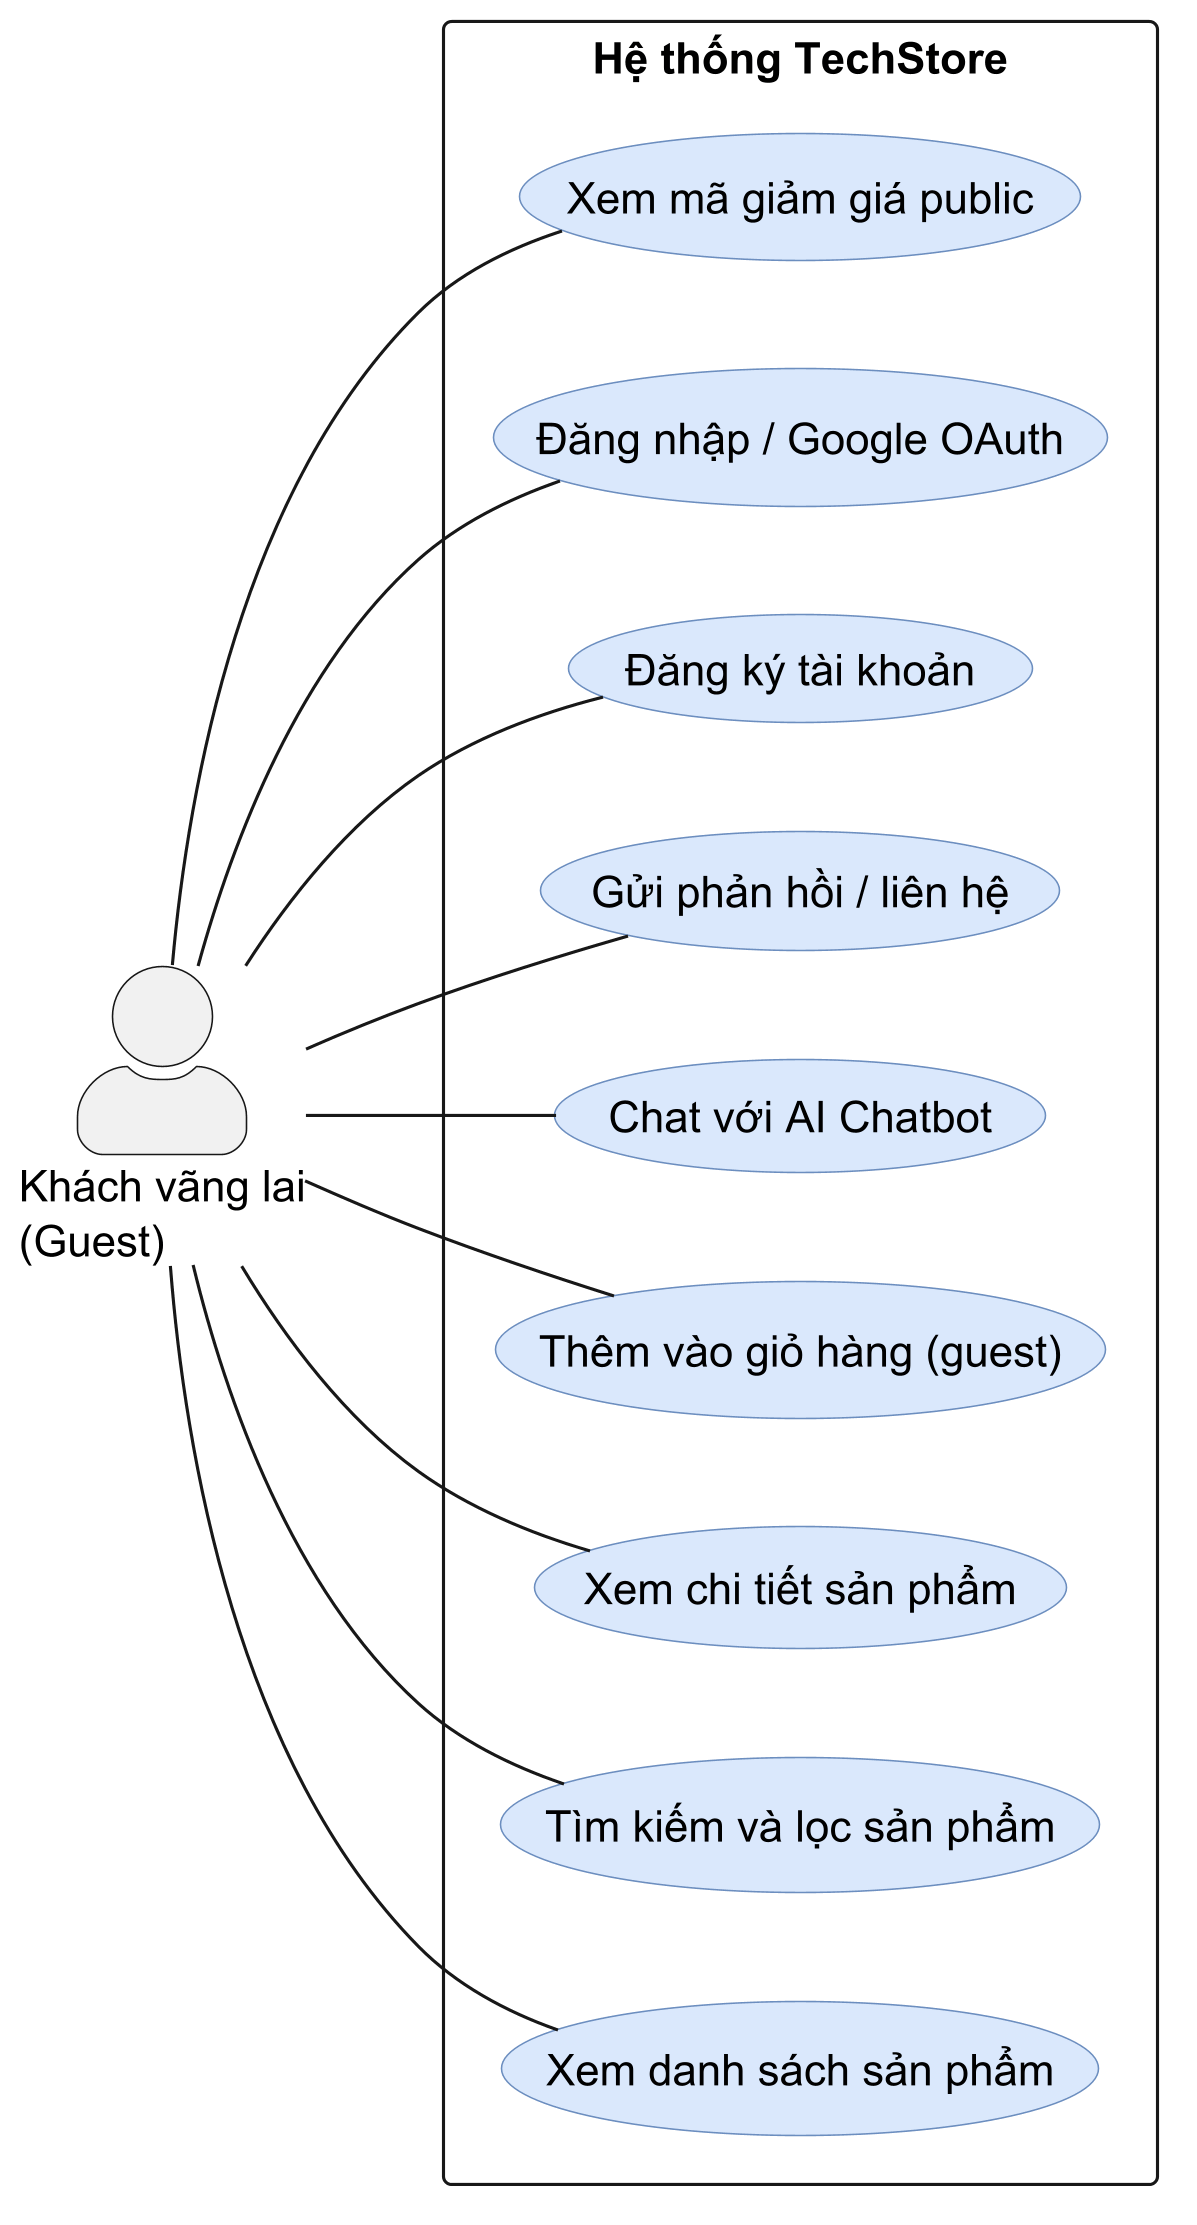
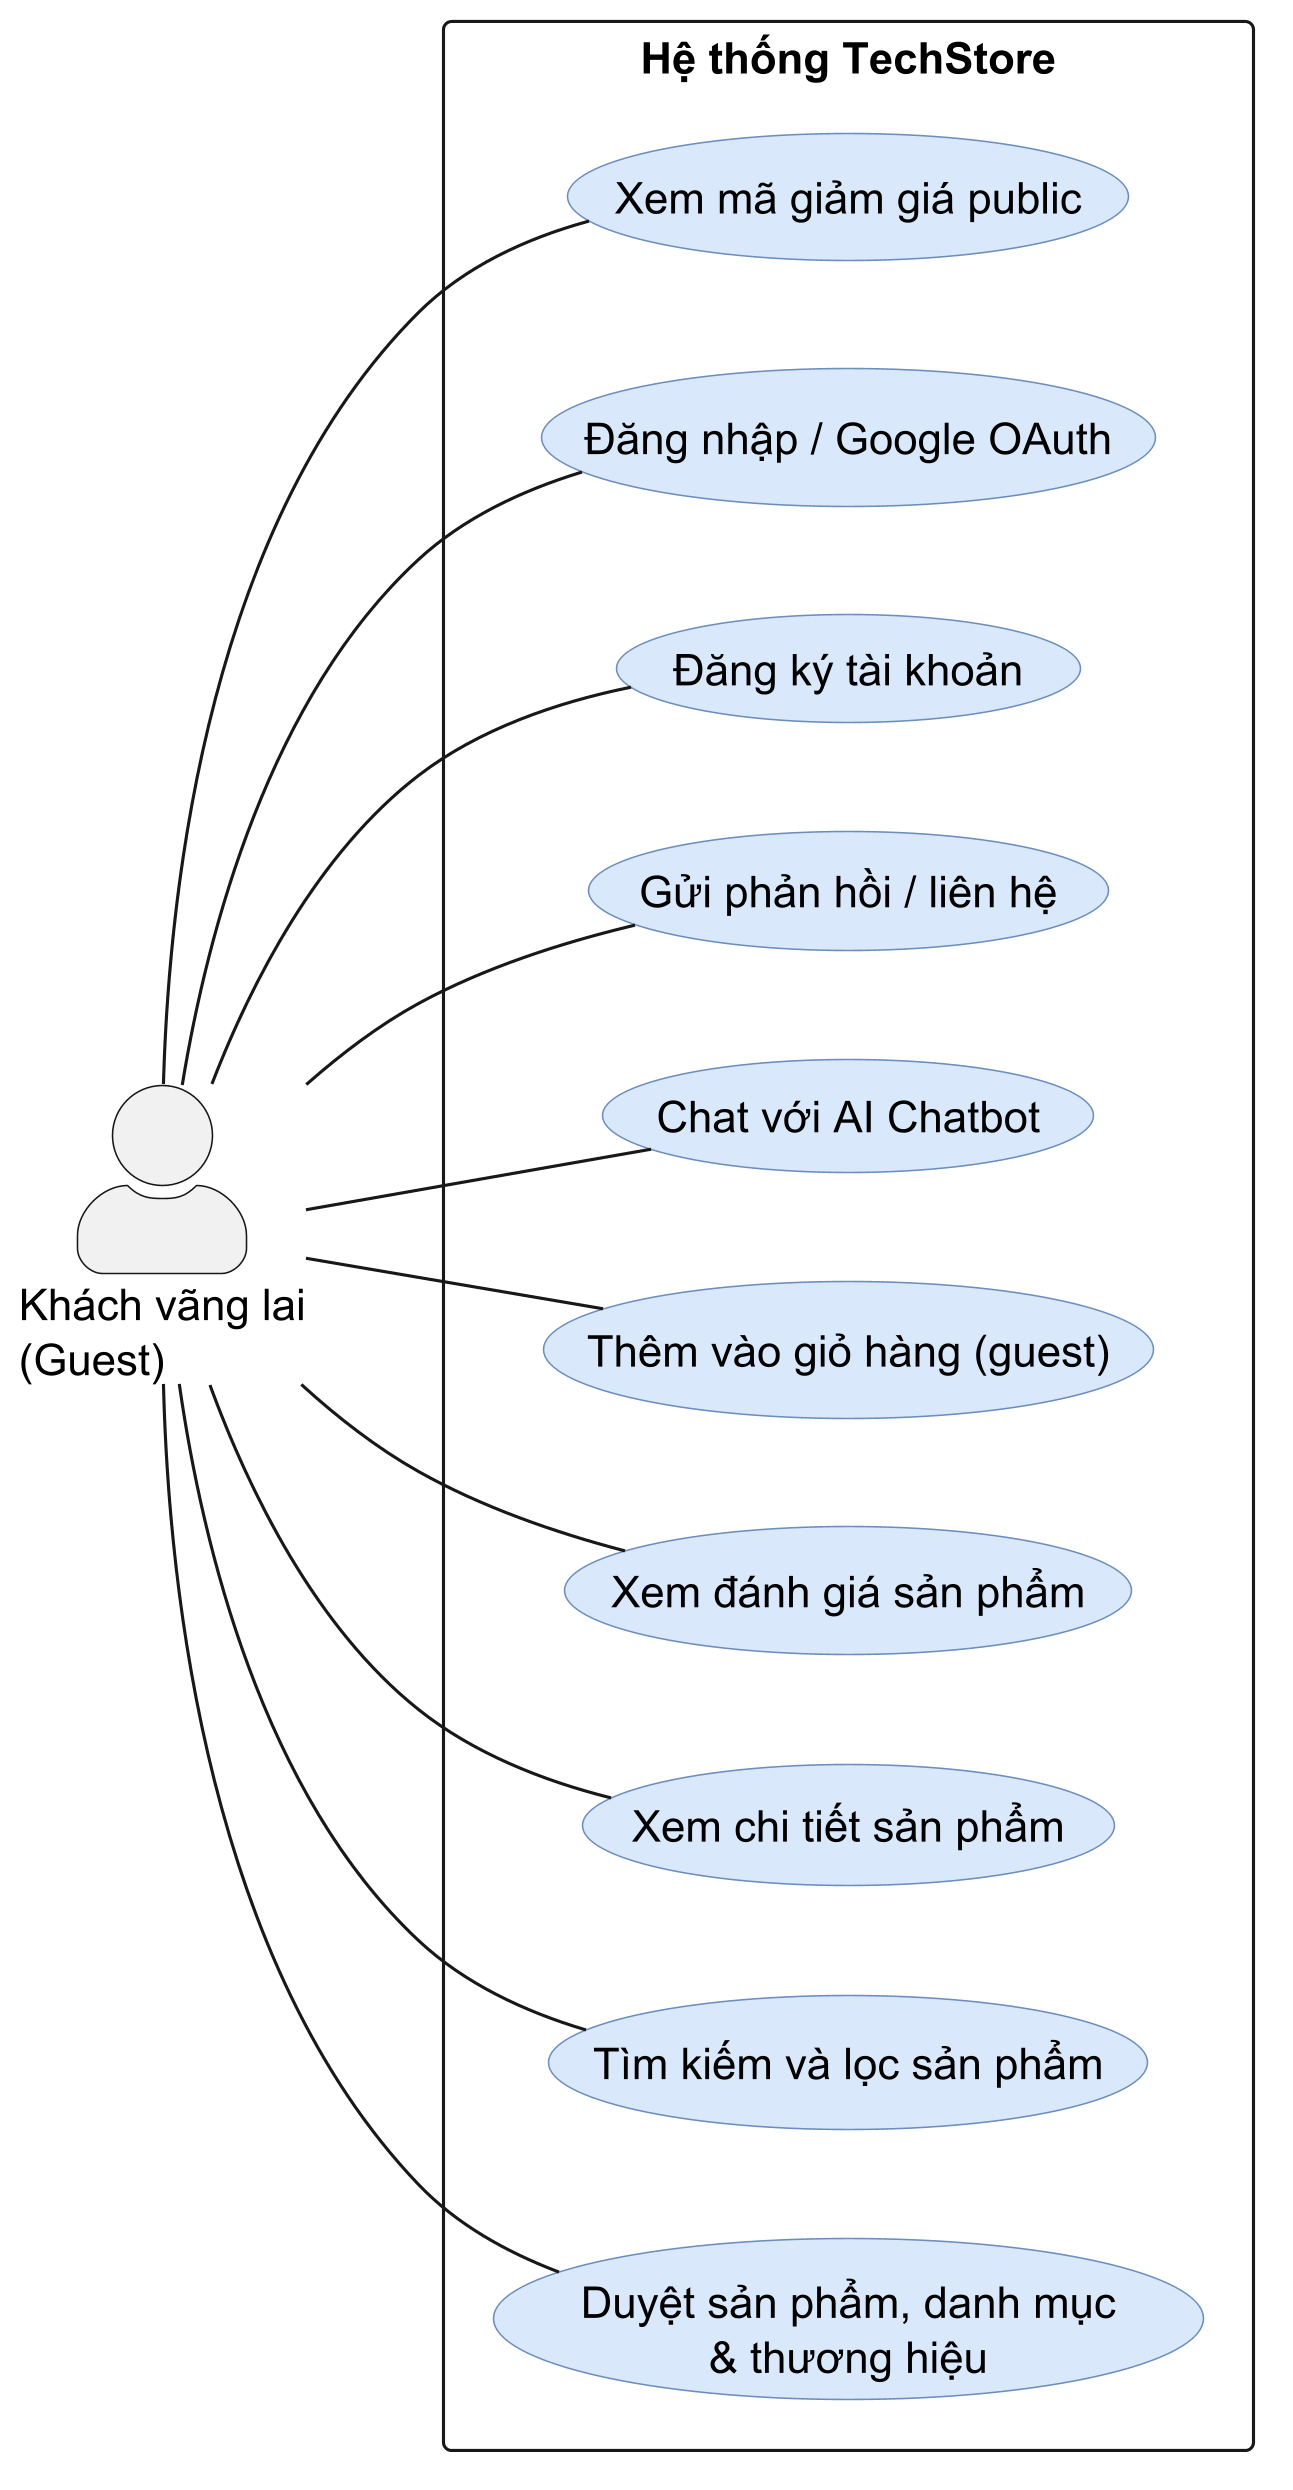
docs(diagram): bổ sung UC thiếu ở uc-01/uc-02 (re-verify)
Vòng re-verify 6 sơ đồ use case signed bằng 6 diagram-verifier độc lập:
- uc-03/uc-12/uc-13: MATCH. uc-14: MATCH (finding admin-UC_filter là
  false-positive — <<extend>> không nối actor trực tiếp).
- uc-01 guest 9->10 UC: +Xem đánh giá SP (reviews public), UC1 gồm danh mục/brand.
- uc-02 customer 15->16 UC: +Tải ảnh lên (avatar/ảnh đánh giá).
0 UC sai/thừa; chỉ MISSING ở 2 overview, đã bổ sung.

diff --git a/plan.md b/plan.md
@@ -299,7 +299,12 @@ Quy trình (D.1 tầng 0): audit logic → fix code → VERIFY đúng cách (gat
   - `uc-02-overview-customer` (15 UC): +UC "Xem & xóa lịch sử tìm kiếm" (`search-history/routes.js:52-54`) + "Xem SP đã xem gần đây" (`catalog/routes.js:313` recently-viewed, authenticate); note feedback là endpoint CÔNG KHAI (`content/routes.js:20`).
   - `uc-03-overview-admin` (9 UC staff): +UC "Quản lý danh mục & thương hiệu (CRUD)" (`catalog/routes.js:100-189` authorize('staff')) + "Nhập SP hàng loạt (import CSV)" (`admin/routes.js:167/169` staffOnly). Export=backoffice đã gộp vào UC analytics.
   - ("4 sơ đồ FAIL" ở handoff cũ là đếm lỏng — thực tế 3 sơ đồ; uc-01-guest đã có "Gửi phản hồi" nên không cần sửa.)
-  - ⚠ CHƯA `git commit` (chờ user yêu cầu rõ). `wf:gate` vẫn đỏ do 39 sơ đồ roadmap còn `pending` — KHÔNG phải do 3 sơ đồ này (đã signed).
+  - ✅ ĐÃ commit `6788bf9` (docs(diagram): vẽ lại + ký GATE-D state-01-order, uc-02, uc-03).
+
+- **✅ RE-VERIFY 6 SƠ ĐỒ USE CASE đã signed (2026-06-03 — 6 diagram-verifier song song, đọc code độc lập):** kết quả 3 MATCH thẳng (uc-03/uc-12/uc-13), 1 MATCH-after-review (uc-14: finding "thiếu admin–UC_filter" = FALSE-POSITIVE — `<<extend>>` UC KHÔNG nối actor trực tiếp, admin nối UC_all đã đủ), 2 có gap public/customer thật → ĐÃ SỬA:
+  - `uc-01-overview-guest` 9→**10 UC**: +UC "Xem đánh giá SP" (`reviews/routes.js:85` public) + UC1 đổi nhãn "Duyệt sản phẩm, danh mục & thương hiệu" (gộp browse category/brand `catalog/routes.js:94,172` public). "Tra cứu đơn" giữ ở uc-12 (cố ý). Re-render OK.
+  - `uc-02-overview-customer` 15→**16 UC**: +UC "Tải ảnh lên (avatar/ảnh đánh giá)" (`upload/routes.js:58-59` authenticate). shipping-estimate đã ở uc-12, chatbot cart-add ở uc-17 → ghi note. Re-render OK.
+  - 0 UC SAI/THỪA ở cả 6 sơ đồ (chỉ MISSING ở 2 overview). Bài học: diagram-verifier chạy isolated → false-positive khi (a) capability đã model ở sơ đồ per-module khác, (b) hiểu sai semantics `<<extend>>`.
 
 **🔧 F7 FIX (2026-06-03) — repay đúng nghiệp vụ + wire UI:** `_canRepay` = `status==='pending' && paymentStatus!=='paid' && paymentMethod!=='cod'` (bỏ nhánh `cancelled` → `cancelled` thành **terminal**, hết leak; loại COD). `repayOrder` chỉ reset `paymentStatus` (failed→pending), **KHÔNG đổi `order.status`** → repay không phải transition. FE: un-dead `handleRepayOrder` + thêm nút "Thanh toán lại" ở `OrdersPage` (lấp UX gap đơn online pending chưa trả). Verify: BE unit (rewrite 3: cancelled/COD→422, pending+momo→ok) **3805 + coverage pass**; integration gate `repay cancelled → throw` (fail nếu revert) trong `orders-edge-cases`; FE +3 test (`cart-orders-pages`); typecheck+lint BE/FE sạch. Doc: `orders/CLAUDE.md §3.5/§3.10` (BE) + FE CLAUDE.md + `DIAGRAMS.md §7.1`. Sơ đồ `state-01-order` re-render (cancelled terminal, bỏ repay arrow).
 
